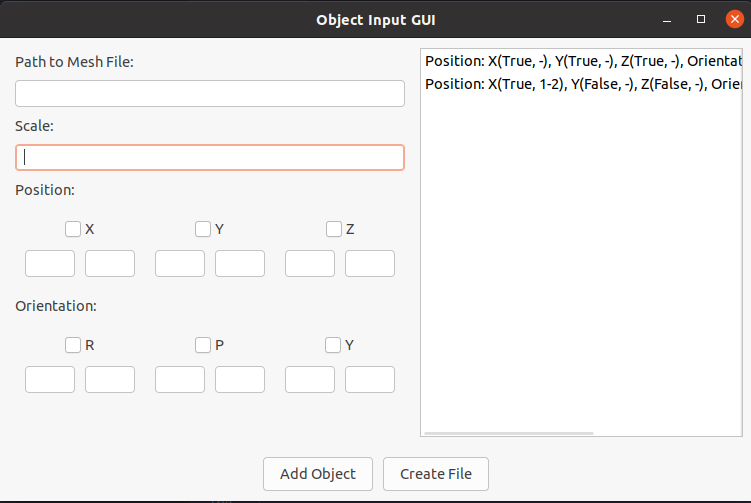
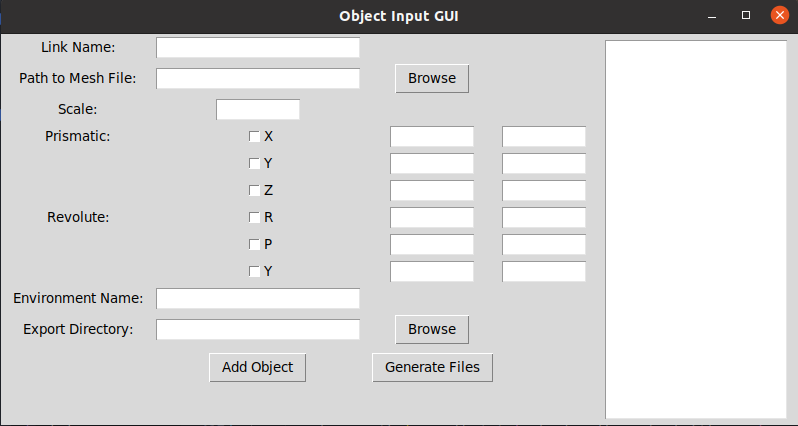
app fully functional, refactoring needed

diff --git a/main.py b/main.py
@@ -1,7 +1,21 @@
+# -----------------------------------------------------------------------------
+# Filename: main.py
+# Author: Servet Bora Bayraktar 
+# Date: 2024-05-27
+# -----------------------------------------------------------------------------
+# This file is part of urdf_srdf_generator.
+#
+# This project is licensed under the MIT License - see the LICENSE file for details.
+# -----------------------------------------------------------------------------
+
 import tkinter as tk
 from tkinter import messagebox
 from xml.etree.cElementTree import *
 from enum import Enum
+from tkinter import filedialog
+import os
+import shutil
+
 
 class Axis(Enum):
     X = 1
@@ -52,6 +66,10 @@ class ObjectInputPanel(tk.Frame):
         self.path_text = tk.Entry(self.input_frame, width=25)
         self.path_text.grid(row=1, column=1, padx=5, pady=2)
 
+
+        self.browse_button = tk.Button(self.input_frame, text="Browse", command=self.browse_file)
+        self.browse_button.grid(row=1, column=2, padx=5, pady=2)
+
         self.scale_label = tk.Label(self.input_frame, text="Scale:")
         self.scale_label.grid(row=2, column=0, padx=5, pady=2)
         self.scale_text = tk.Entry(self.input_frame, width=10)
@@ -87,11 +105,27 @@ class ObjectInputPanel(tk.Frame):
             lower_limit.grid(row=6+i, column=2, padx=2, pady=2)
             upper_limit.grid(row=6+i, column=3, padx=2, pady=2)
 
+        
+        self.environment_label = tk.Label(self.input_frame, text="Environment Name:")
+        self.environment_label.grid(row=9, column=0, padx=5, pady=2)
+        self.environment_text = tk.Entry(self.input_frame, width=25)
+        self.environment_text.grid(row=9, column=1, padx=5, pady=2)
+
+        self.export_label = tk.Label(self.input_frame, text="Export Directory:")
+        self.export_label.grid(row=10, column=0, padx=5, pady=2)
+        self.export_text = tk.Entry(self.input_frame, width=25)
+        self.export_text.grid(row=10, column=1, padx=5, pady=2)
+
+        self.export_browse_button = tk.Button(self.input_frame, text="Browse", command=self.browse_export_directory)
+        self.export_browse_button.grid(row=10, column=2, padx=5, pady=2)
+
+
+
         self.add_button = tk.Button(self.input_frame, text="Add Object", command=self.add_object)
-        self.add_button.grid(row=9, column=1, padx=5, pady=5)
+        self.add_button.grid(row=11, column=1, padx=5, pady=5)
 
         self.generate_button = tk.Button(self.input_frame, text="Generate Files", command=self.generate_files)
-        self.generate_button.grid(row=9, column=2, padx=5, pady=5)
+        self.generate_button.grid(row=11, column=2, padx=5, pady=5)
 
         self.list_box = tk.Listbox(self.list_frame)
         self.list_box.pack(padx=5, pady=5, fill=tk.BOTH, expand=True)
@@ -106,7 +140,27 @@ class ObjectInputPanel(tk.Frame):
     def generate_files(self):
         print("Generate Files button clicked.")
         # Add further functionality as needed for generating files
+
+        environment_name = self.environment_text.get()
+        export_directory = self.export_text.get()
+        
+        if environment_name == '':
+            messagebox.showerror("Error", "Environment name must be set")
+            return
+        if export_directory == '': 
+            messagebox.showerror("Error", "Export directory must be set")
+            return
+        
+
+        self.create_directory_structure()
+        self.copy_mesh_files_into_folder()
+
         self.build_urdf_tree()
+        self.build_srdf_tree()
+
+
+        self.environment_text.delete(0, tk.END)
+        self.export_text.delete(0, tk.END)
 
     def get_axis(self, text):
         return Axis.X if text == 'X' else Axis.Y if text == 'Y' else Axis.Z
@@ -135,6 +189,20 @@ class ObjectInputPanel(tk.Frame):
 
                 joints.append(Joint('revolute', self.get_axis(cb.cget('text')), float(ll.get()), float(ul.get())))
         return joints
+
+
+    def browse_file(self):
+        file_path = filedialog.askopenfilename()
+        if file_path:
+            self.path_text.delete(0, tk.END)
+            self.path_text.insert(0, file_path)
+
+    def browse_export_directory(self):
+        dir_path = filedialog.askdirectory()
+        if dir_path:
+            self.export_text.delete(0, tk.END)
+            self.export_text.insert(0, dir_path)
+
 
     def clean_fields(self):
         self.name_text.delete(0, tk.END)
@@ -181,7 +249,7 @@ class ObjectInputPanel(tk.Frame):
 
         
         self.list_box.insert(tk.END, f"Link name: {link_name}, #Joints: {len(joints)}, Scale: {scale}, Path: {path}")
-        self.current_id +=1
+        self.current_id += 1
 
 
     def create_link_xml_for_obj(self, obj, material_color="0.87450980392 0.87450980392 0.87058823529 0.4"):
@@ -190,9 +258,11 @@ class ObjectInputPanel(tk.Frame):
         # We could use obj.name but for simplicity we will use the joint_0 convention
         link_elems = []
 
+        mesh_path = obj.mesh_path.split('/')[-1]
+        copy_path = os.path.join(self.export_text.get(), self.environment_text.get(), 'meshes', mesh_path)
+
         max_joint_id = len(obj.joints)
         for i in range(max_joint_id):
-            print("i : "   , i, "- max_joint_id: ", max_joint_id)
             if i == 0:
                 link_name = 'link_'+ str(obj.id) + '_joint_0'
                 link_elem = Element('link', {'name' : link_name})
@@ -200,8 +270,8 @@ class ObjectInputPanel(tk.Frame):
                 visual = SubElement(link_elem, 'visual')
                 geometry_visual = SubElement(visual, 'geometry')
                     
-                mesh_visual = SubElement(geometry_visual, 'mesh', {'filename' : obj.mesh_path,
-                                                    'scale' : f'{obj.scale}, {obj.scale}, {obj.scale}'})
+                mesh_visual = SubElement(geometry_visual, 'mesh', {'filename' : copy_path,
+                                                    'scale' : f'{obj.scale} {obj.scale} {obj.scale}'})
                 
                 origin_visual = SubElement(visual, 'origin', {'rpy' : '0 0 0',
                                                             'xyz' : '0 0 0'})
@@ -213,8 +283,8 @@ class ObjectInputPanel(tk.Frame):
 
                 collision = SubElement(link_elem, 'collision', {'concave': 'yes', 'name': ''})
                 geometry_collision = SubElement(collision, 'geometry')
-                mesh_collision = SubElement(geometry_collision, 'mesh', {'filename' : obj.mesh_path,
-                                                    'scale' : f'{obj.scale}, {obj.scale}, {obj.scale}'})
+                mesh_collision = SubElement(geometry_collision, 'mesh', {'filename' : copy_path,
+                                                    'scale' : f'{obj.scale} {obj.scale} {obj.scale}'})
                 
                 origin_collision = SubElement(collision, 'origin', {'rpy' : '0 0 0',
                                                             'xyz' : '0 0 0'})
@@ -273,11 +343,53 @@ class ObjectInputPanel(tk.Frame):
             max_joint_id -= 1
         return joints
             
-    def add_object_to_tree(obj):
-        pass
-        
-        
+    def create_fixed_joint_xml(self, obj):
+        joint_elem = Element('joint', {'name' : f"{obj.name}",
+                                           'type' : 'fixed'})
+
+        origin_elem = SubElement(joint_elem, 'origin', {'rpy' : '0 0 0',
+                                                      'xyz' : '0 0 0'})
+        parent_elem = SubElement(joint_elem, 'parent', {'link' : 'base_link'})
+        child_elem = SubElement(joint_elem, 'child', {'link' : obj.name})
+        return joint_elem        
     
+    def create_fixed_link_xml(self, obj, material_color="0.87450980392 0.87450980392 0.87058823529 0.4"):
+
+
+        mesh_path = obj.mesh_path.split('/')[-1]
+        copy_path = os.path.join(self.export_text.get(), self.environment_text.get(), 'meshes', mesh_path)
+        
+        link_elem = Element('link', {'name' : obj.name})
+
+        visual = SubElement(link_elem, 'visual')
+        geometry_visual = SubElement(visual, 'geometry')
+                    
+        mesh_visual = SubElement(geometry_visual, 'mesh', {'filename' : copy_path,
+                                                    'scale' : f'{obj.scale}, {obj.scale}, {obj.scale}'})
+                
+        origin_visual = SubElement(visual, 'origin', {'rpy' : '0 0 0',
+                                                            'xyz' : '0 0 0'})
+                
+        material_visual = SubElement(visual, 'material', {'name' : ""})
+        material_visual_color = SubElement(material_visual, 'color', {'rgba' :
+                                                                            material_color})
+                ##########################
+
+        collision = SubElement(link_elem, 'collision', {'concave': 'yes', 'name': ''})
+        geometry_collision = SubElement(collision, 'geometry')
+        mesh_collision = SubElement(geometry_collision, 'mesh', {'filename' : copy_path,
+                                                    'scale' : f'{obj.scale} {obj.scale} {obj.scale}'})
+                
+        origin_collision = SubElement(collision, 'origin', {'rpy' : '0 0 0',
+                                                            'xyz' : '0 0 0'})
+                
+        material_collision = SubElement(collision, 'material', {'name' : ""})
+        material_collision_color = SubElement(material_collision, 'color', {'rgba' :
+                                                                            material_color})
+        link_elem_string = tostring(link_elem, encoding='unicode', method='xml')
+
+        return [link_elem]
+        
 
     def build_urdf_tree(self):
         root_urdf = Element('robot', {'name' : 'robot_name'})
@@ -285,19 +397,86 @@ class ObjectInputPanel(tk.Frame):
         base_link = SubElement(root_urdf, 'base_link',
                                {'name' : 'base_link'})
 
+        obj_id_fix = 0
         for obj in self.objects_urdf:
-            links = self.create_link_xml_for_obj(obj)
-            for link in links:
-                root_urdf.append(link)
-
+            if obj.joints == []:
+                links = self.create_fixed_link_xml(obj)
+                root_urdf.append(links[0])
+            else:
+                obj.id = obj_id_fix # objects with dof should start at 0, fixed objects dont need the id convention
+                links = self.create_link_xml_for_obj(obj)
+                for link in links:
+                    root_urdf.append(link)
+                obj_id_fix += 1
+            
+        obj_id_fix = 0
         for obj in self.objects_urdf:
-            joints = self.create_joint_xml_for_obj(obj)
-            for joint in joints:
+            if obj.joints == []:
+                joint = self.create_fixed_joint_xml(obj)
                 root_urdf.append(joint)
+            else:
+                obj.id = obj_id_fix # objects with dof should start at 0, fixed objects dont need the id convention
+                joints = self.create_joint_xml_for_obj(obj)
+                for joint in joints:
+                    root_urdf.append(joint)
+                obj_id_fix += 1
         
         tree = ElementTree(root_urdf)
-        dump(tree)
+        output_path = os.path.join(self.export_text.get(), self.environment_text.get(), 'urdf')
+        output_filename = self.environment_text.get() + '.urdf'
+        tree.write(os.path.join(output_path, output_filename), encoding='utf-8', xml_declaration=True)
+
+ #       dump(tree)
+    
+    
+    def build_srdf_tree(self):
+        root_srdf = Element('robot', {'name' : 'robot_name'})
         
+        obj_id_fix = 0
+        for obj in self.objects_urdf:
+            if obj.joints != []:
+                obj.id = obj_id_fix
+                group_elem = SubElement(root_srdf, 'group', {'name' : f'link_{obj.id}_gr'})
+                for i in range(len(obj.joints)):
+                    joint_elem = SubElement(group_elem, 'joint', {'name' : f'link_{obj.id}_joint_{i}'})
+                obj_id_fix += 1
+
+        tree = ElementTree(root_srdf)
+        output_path = os.path.join(self.export_text.get(), self.environment_text.get(), 'srdf')
+        output_filename = self.environment_text.get() + '.srdf'
+        tree.write(os.path.join(output_path, output_filename), encoding='utf-8', xml_declaration=True)
+
+#        dump(tree)
+
+    def create_directory_structure(self):
+        directory = self.export_text.get()
+        folder_name = self.environment_text.get()
+
+        if directory and folder_name:
+            full_path = os.path.join(directory, folder_name)
+            if not os.path.exists(full_path):
+                os.makedirs(full_path)
+                mesh_folder = os.path.join(full_path, 'meshes')
+                urdf_folder = os.path.join(full_path, 'urdf')
+                srdf_folder = os.path.join(full_path, 'srdf')
+                os.makedirs(mesh_folder)
+                os.makedirs(urdf_folder)
+                os.makedirs(srdf_folder)
+                print(f"Folder '{folder_name}' created at '{directory}'")
+            else:
+                print(f"Folder '{folder_name}' already exists at '{directory}'")
+        else:
+            print("Export directory or folder name is missing")
+
+    def copy_mesh_files_into_folder(self):
+        for obj in self.objects_urdf:
+            mesh_path = obj.mesh_path
+
+            if mesh_path:
+                mesh_folder = os.path.join(self.export_text.get(), self.environment_text.get(), 'meshes')
+                shutil.copy(mesh_path, mesh_folder)
+                print(f"Mesh file '{mesh_path}' copied to '{mesh_folder}'")
+
 
 
 root = tk.Tk()
